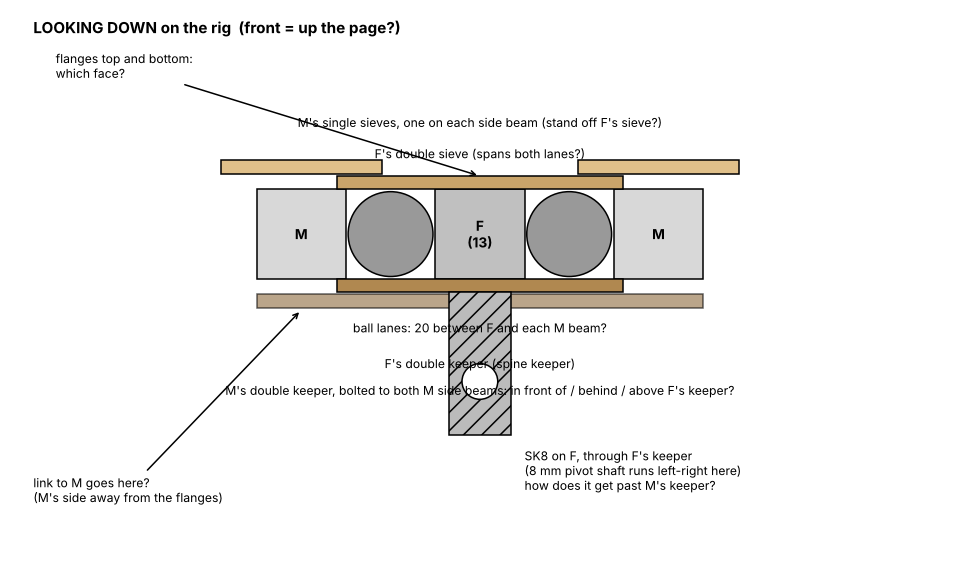
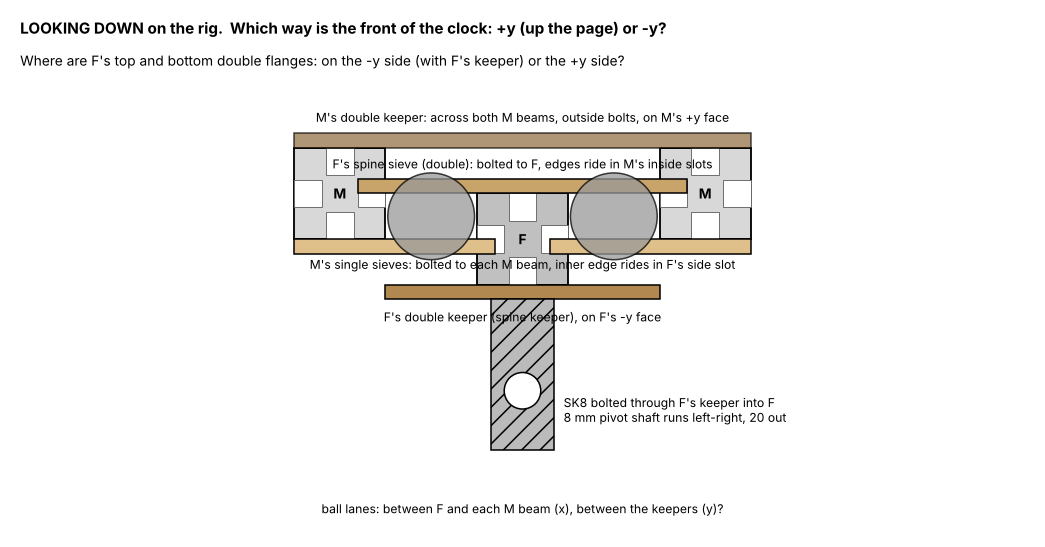
Rig section sketch v2: F/M offset 10 mm, interleaved sieves
Claude-Session: https://claude.ai/code/session_01LQy87QnU21cWEAk5CN6jGY

diff --git a/marbles/clock/rig_section_guess.py b/marbles/clock/rig_section_guess.py
@@ -1,37 +1,45 @@
 #!/usr/bin/env python3
-"""Top-down section of the lift rig as Claude currently understands it (for Alex to correct). Not a design."""
+"""Top-down section of the lift rig as Claude currently understands it (for Alex to correct). Not a design.
+v2 (2026-11-14): F and M offset ~10 mm front-to-back; M's single sieves ride in F's side slots, F's spine sieve rides
+in M's side beams' inside slots."""
+from pathlib import Path
 import matplotlib
 matplotlib.use("Agg")
 import matplotlib.pyplot as plt
 from matplotlib.patches import Rectangle, Circle
 
-fig, ax = plt.subplots(figsize=(11, 7.5))
+T = 3.2                      # sieve / keeper thickness (MDF)
+OFF = 10.0                   # M's beams sit this far toward +y (up the page) from F
+fig, ax = plt.subplots(figsize=(12, 8))
 def beam(x, y, col, lab):
-    ax.add_patch(Rectangle((x - 10, y - 10), 20, 20, fc=col, ec="k"))
+    ax.add_patch(Rectangle((x - 10, y - 10), 20, 20, fc=col, ec="k", lw=1.2))
+    for (sx, sy, w, h) in ((x - 10, y - 3, 6, 6), (x + 4, y - 3, 6, 6), (x - 3, y - 10, 6, 6), (x - 3, y + 4, 6, 6)):
+        ax.add_patch(Rectangle((sx, sy), w, h, fc="w", ec="0.4", lw=.6))       # the 4 T-slots
     ax.text(x, y, lab, ha="center", va="center", fontsize=9, weight="bold")
-beam(0, 0, "#c0c0c0", "F\n(13)")
-beam(-40, 0, "#d8d8d8", "M")
-beam(40, 0, "#d8d8d8", "M")
-for x in (-20, 20):
-    ax.add_patch(Circle((x, 0), 9.5, fc="#999", ec="k"))
-ax.text(0, -22, "ball lanes: 20 between F and each M beam?", ha="center", fontsize=8)
-# front face (+y): sieves
-ax.add_patch(Rectangle((-32, 10), 64, 3, fc="#c9a46a", ec="k")); ax.text(36, 11.5, "", fontsize=8)
-ax.text(0, 17, "F's double sieve (spans both lanes?)", ha="center", fontsize=8)
-for x in (-40, 40):
-    ax.add_patch(Rectangle((x - 18, 13.5), 36, 3, fc="#e0c08a", ec="k"))
-ax.text(0, 24, "M's single sieves, one on each side beam (stand off F's sieve?)", ha="center", fontsize=8)
-# back face (-y): keepers
-ax.add_patch(Rectangle((-32, -13), 64, 3, fc="#b08850", ec="k"))
-ax.text(0, -30, "F's double keeper (spine keeper)", ha="center", fontsize=8)
-ax.add_patch(Rectangle((-50, -16.5), 100, 3, fc="#8c6a3c", ec="k", alpha=.6))
-ax.text(0, -36, "M's double keeper, bolted to both M side beams: in front of / behind / above F's keeper?", ha="center", fontsize=8)
-# SK8 through F's keeper
-ax.add_patch(Rectangle((-7, -45), 14, 32, fc="#bbb", ec="k", hatch="//"))
-ax.add_patch(Circle((0, -33), 4, fc="w", ec="k"))
-ax.text(10, -48, "SK8 on F, through F's keeper\n(8 mm pivot shaft runs left-right here)\nhow does it get past M's keeper?", fontsize=8, va="top")
-ax.annotate("flanges top and bottom:\nwhich face?", (0, 13), (-95, 35), arrowprops=dict(arrowstyle="->"), fontsize=8)
-ax.annotate("link to M goes here?\n(M's side away from the flanges)", (-40, -17), (-100, -60), arrowprops=dict(arrowstyle="->"), fontsize=8)
-ax.text(-100, 45, "LOOKING DOWN on the rig  (front = up the page?)", fontsize=10, weight="bold")
-ax.set_xlim(-105, 105); ax.set_ylim(-75, 50); ax.set_aspect("equal"); ax.axis("off")
-plt.savefig(HERE := __import__("pathlib").Path(__file__).resolve().parent.parent / "views" / "rig_section_guess.png", dpi=110, bbox_inches="tight")
+beam(0, 0, "#c0c0c0", "F")
+beam(-40, OFF, "#d8d8d8", "M")
+beam(40, OFF, "#d8d8d8", "M")
+# F's spine sieve: on F's +y face, edges in M's inside slots (slot centre plane y = OFF)
+ax.add_patch(Rectangle((-36, 10), 72, T, fc="#c9a46a", ec="k"))
+ax.text(0, 15.5, "F's spine sieve (double): bolted to F, edges ride in M's inside slots", ha="center", fontsize=8)
+# M's single sieves: on M's -y face, inner edge in F's side slot (slot centre plane y = 0)
+for s in (-1, 1):
+    ax.add_patch(Rectangle((min(s * 6, s * 50), -T + 0), abs(s * 50 - s * 6), T, fc="#e0c08a", ec="k"))
+ax.text(0, -6.5, "M's single sieves: bolted to each M beam, inner edge rides in F's side slot", ha="center", fontsize=8)
+# keepers
+ax.add_patch(Rectangle((-30, -10 - T), 60, T, fc="#b08850", ec="k"))
+ax.text(0, -18, "F's double keeper (spine keeper), on F's -y face", ha="center", fontsize=8)
+ax.add_patch(Rectangle((-50, OFF + 10), 100, T, fc="#8c6a3c", ec="k", alpha=.7))
+ax.text(0, OFF + 10 + T + 2.5, "M's double keeper: across both M beams, outside bolts, on M's +y face", ha="center", fontsize=8)
+# balls in the lanes
+for s in (-1, 1):
+    ax.add_patch(Circle((s * 20, 5), 9.5, fc="#999", ec="k", alpha=.75))
+ax.text(0, -60, "ball lanes: between F and each M beam (x), between the keepers (y)?", ha="center", fontsize=8)
+# SK8 on F's keeper
+ax.add_patch(Rectangle((-7, -10 - T - 33), 14, 33, fc="#bbb", ec="k", hatch="//"))
+ax.add_patch(Circle((0, -10 - T - 20), 4, fc="w", ec="k"))
+ax.text(9, -40, "SK8 bolted through F's keeper into F\n8 mm pivot shaft runs left-right, 20 out", fontsize=8)
+ax.text(-110, 45, "LOOKING DOWN on the rig.  Which way is the front of the clock: +y (up the page) or -y?", fontsize=10, weight="bold")
+ax.text(-110, 38, "Where are F's top and bottom double flanges: on the -y side (with F's keeper) or the +y side?", fontsize=9)
+ax.set_xlim(-112, 112); ax.set_ylim(-65, 50); ax.set_aspect("equal"); ax.axis("off")
+plt.savefig(Path(__file__).resolve().parent.parent / "views" / "rig_section_guess.png", dpi=110, bbox_inches="tight")
